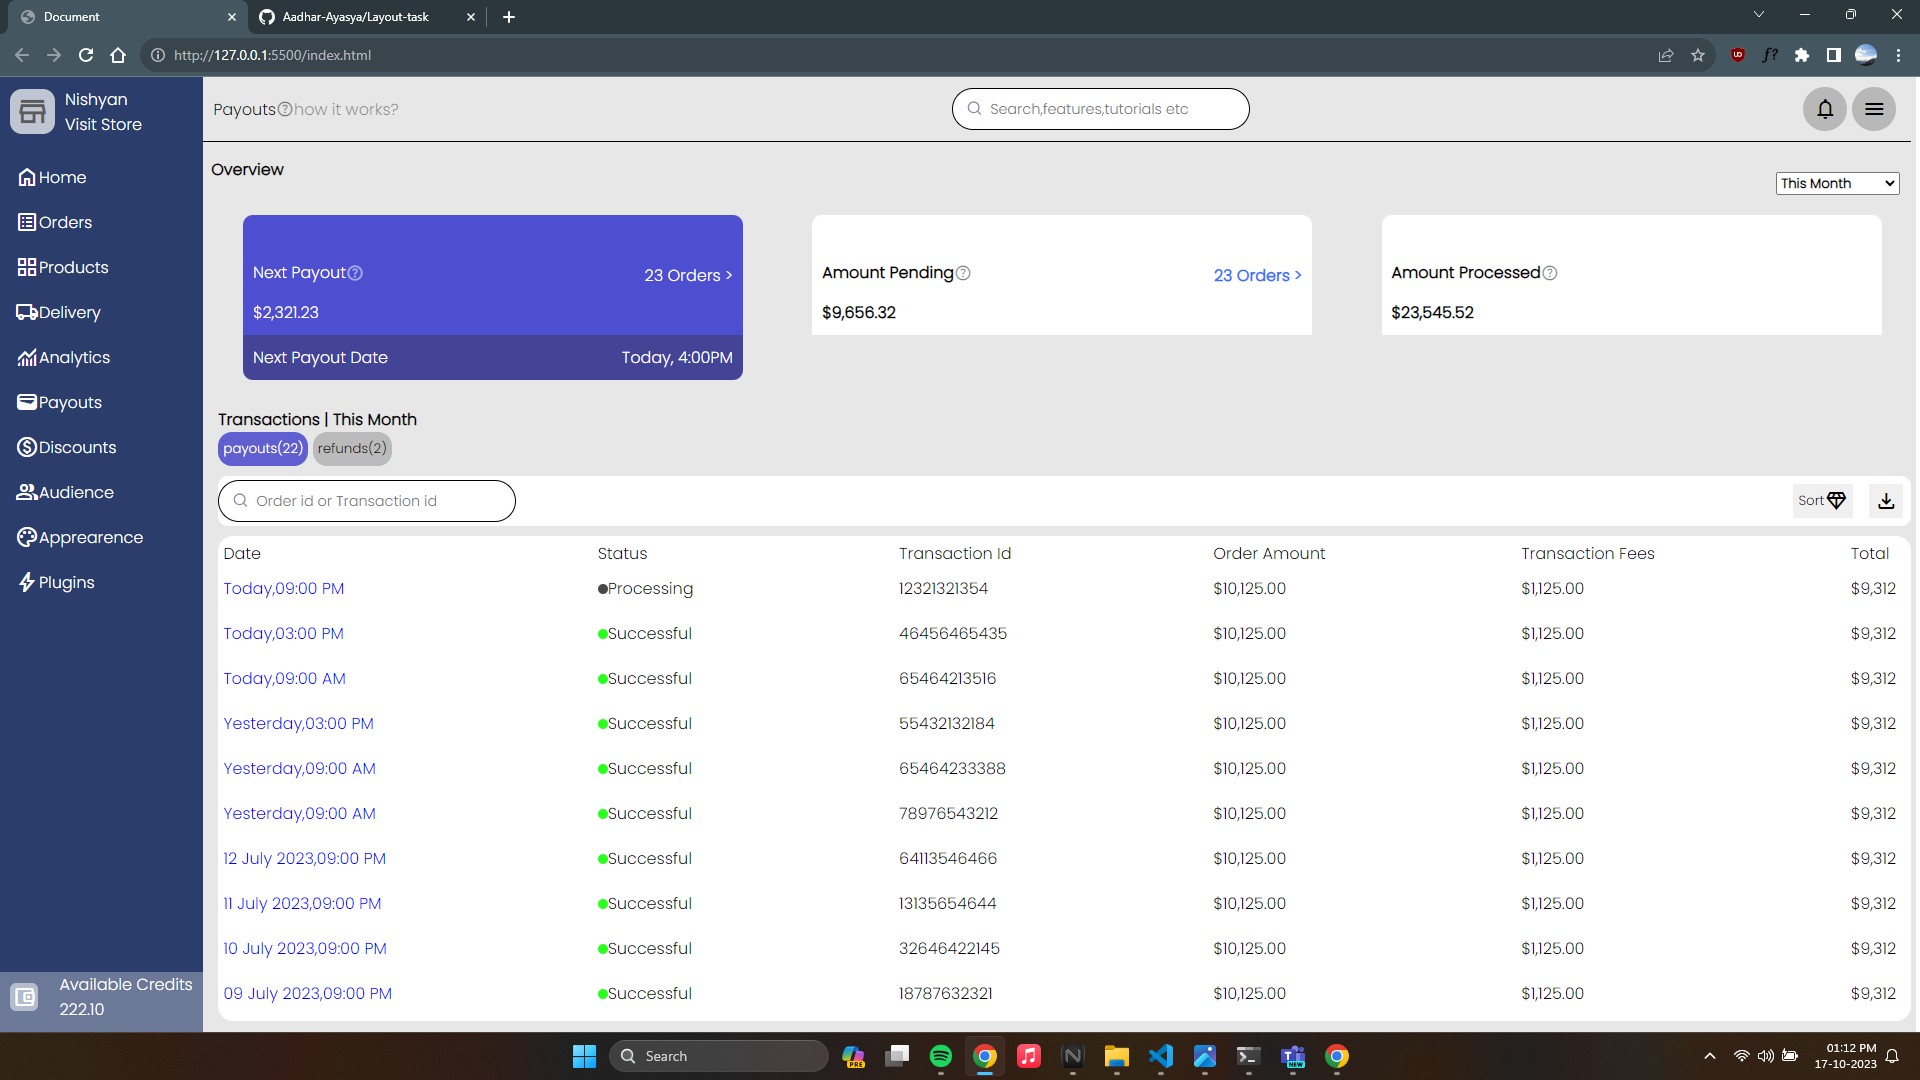
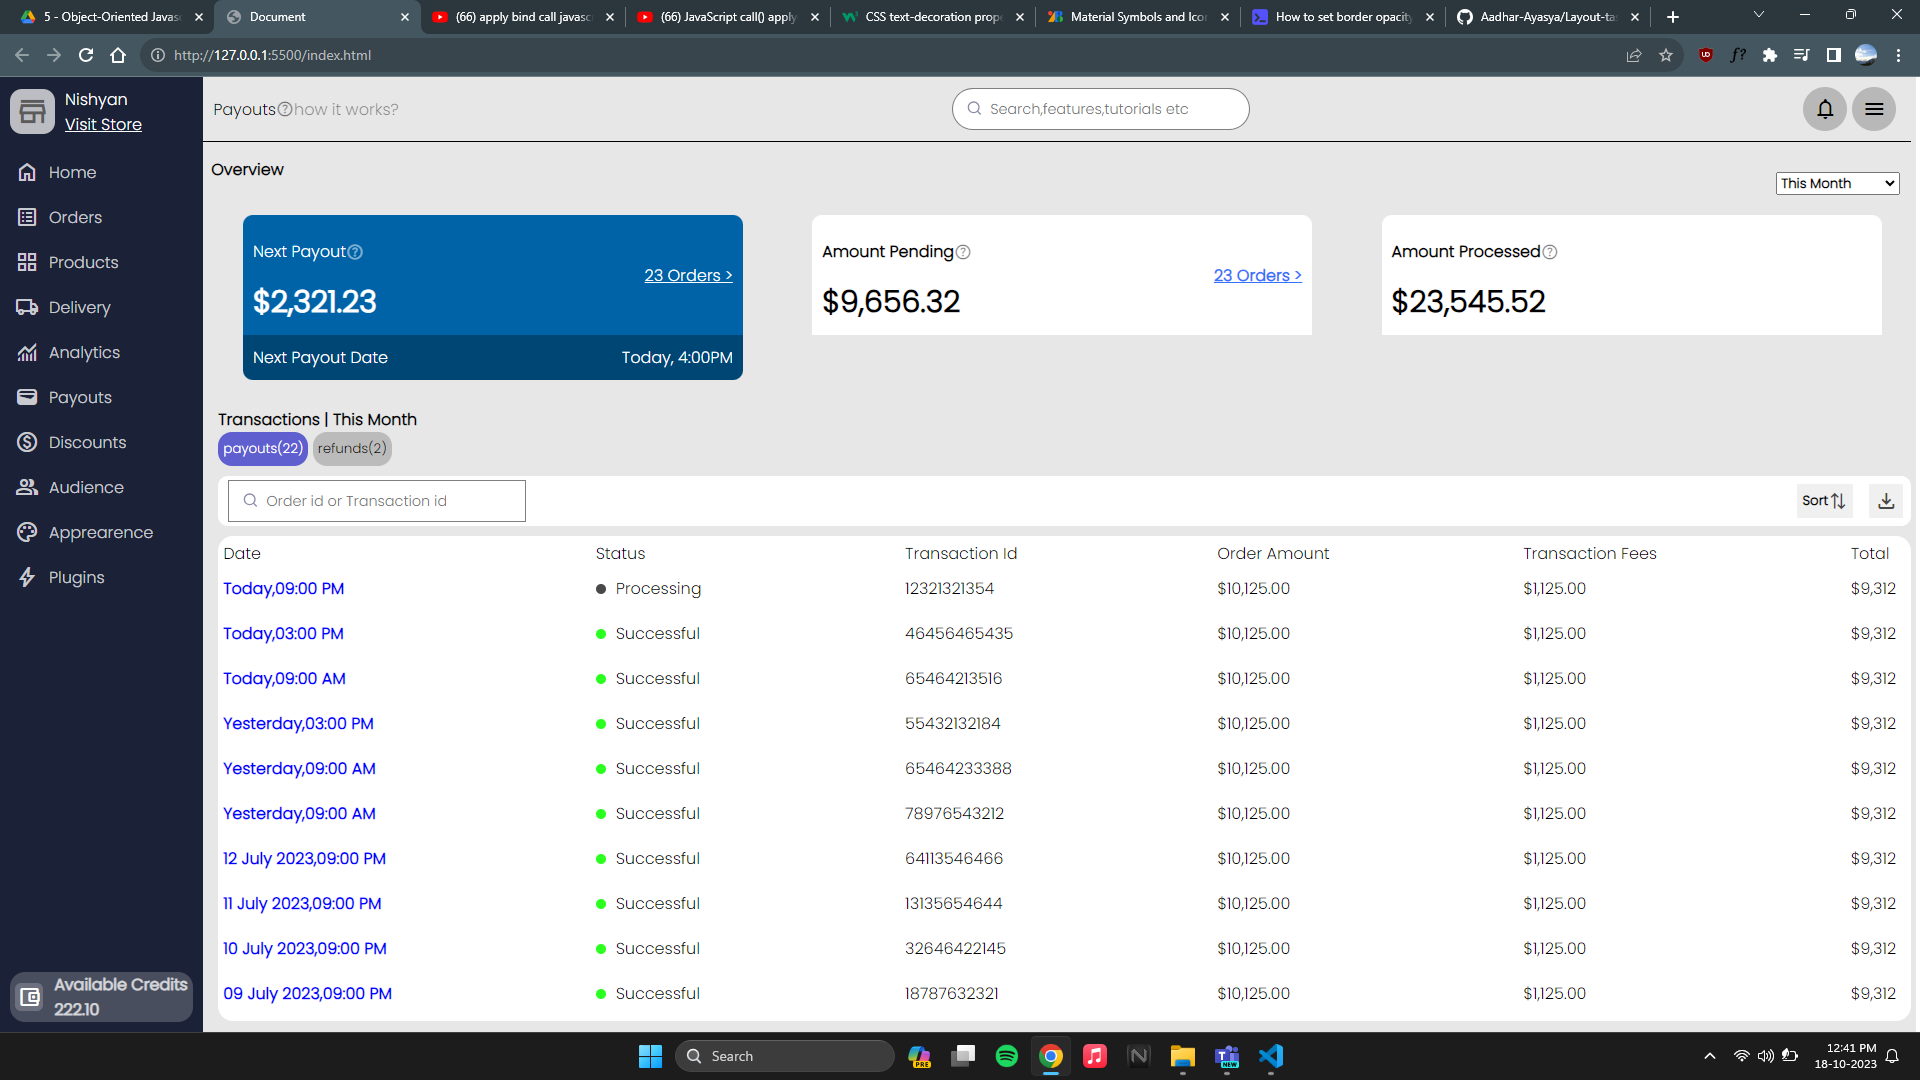
Some Changes

diff --git a/index.html b/index.html
@@ -25,7 +25,9 @@
                 <div class="right-top">
                     <p>Nishyan</p>
                     <a style="text-decoration:none; color: white; " href="#">
-                        <p>Visit Store</p>
+                        <p style="
+                        text-decoration: underline;
+                    " >Visit Store</p>
                     </a>
                 </div>
             </div>
@@ -172,7 +174,9 @@
                             </div>
                             <div class="card-right">
                                 <a href="#">
-                                    <p>23 Orders ></p>
+                                    <p style="
+                                    text-decoration: underline;
+                                " >23 Orders ></p>
                                 </a>
                             </div>
                         </div>
@@ -193,7 +197,9 @@
                             </div>
                             <div class="card-right">
                                 <a style="color: rgb(53, 115, 251);" href="#">
-                                    <p>23 Orders ></p>
+                                    <p style="
+                                    text-decoration: underline;
+                                " >23 Orders ></p>
                                 </a>
                             </div>
                         </div>
@@ -222,7 +228,7 @@
                 </div>
                 <div class="secondary-container">
                     <div class="container-top">
-                        <form class="form">
+                        <form  style="border-radius: 0px; margin-left: 10px; " class="form">
                             <button>
                                 <svg width="17" height="16" fill="none" xmlns="http://www.w3.org/2000/svg" role="img"
                                     aria-labelledby="search">
@@ -242,12 +248,12 @@
                             </button>
                         </form>
                         <div class="container-right">
-                            <button id="btn4"> Sort <span class="material-symbols-outlined">
-                                    diamond
+                            <button id="btn4"> <p style="font-weight: 600;" >Sort</p> <span style="transform: rotate(90deg);color:rgba(0, 0, 0, 0.7); font-size: 20px; "  class="material-symbols-outlined">
+                                sync_alt
                                 </span>
                             </button>
                             <button id="btn5">
-                                <span class="material-symbols-outlined">
+                                <span style="color:rgba(0, 0, 0, 0.7);" class="material-symbols-outlined">
                                     download
                                 </span>
                             </button>

diff --git a/style.css b/style.css
@@ -47,9 +47,7 @@ header {
 
 aside {
     display: flex;
-    /* width: 15%; */
-    /* height: 100vh; */
-    background-color: rgb(43, 61, 106);
+    background-color: #1b2237;
     flex-direction: column;
     justify-content: space-between;
 }
@@ -78,33 +76,46 @@ aside {
     padding-bottom: 350px;
     color: white;
 }
+.ele span {
+    padding-right: 10px;
+}
 
 .ele {
+    color: rgba(255, 255, 255, 0.762);
     display: flex;
     padding: 5px;
-    padding-right: 50px;
+    padding-right: 40px;
     margin: 10px;
     align-items: center;
 }
 
 .ele:hover {
-    background-color: rgba(220, 220, 220, 0.3);
+    background-color: rgba(220, 220, 220, 0.2);
+    color: rgba(255, 255, 255, 1);
+
     border-radius: 5px;
 }
 
 .bottom {
-    padding-bottom: 10px;
+    border-radius: 15px;
+    margin: 10px;
     display: flex;
     justify-content: space-around;
     color: white;
     align-items: center;
-    background-color: rgba(255, 255, 255, 0.3);
+    background-color: rgba(255, 255, 255, 0.2);
 }
 
 .bottom span {
     border-radius: 6px;
     padding: 2px;
-    background-color: rgba(255, 255, 255, 0.5);
+    background-color: rgba(255, 255, 255, 0.2);
+}
+
+.txt{
+    font-weight: 600;
+
+    color: rgba(255, 255, 255, 0.762);
 }
 
 .title {
@@ -135,7 +146,7 @@ aside {
     padding: 10px;
     border-bottom-left-radius: 10px;
     border-bottom-right-radius: 10px;
-    background-color: #444497;
+    background-color: #004674;
     display: flex;
     justify-content: space-between;
 }
@@ -145,7 +156,7 @@ aside {
     border-top-left-radius: 10px;
     border-top-right-radius: 10px;
     display: flex;
-    background-color: #4e4ed1;
+    background-color: #0063a8;
     justify-content: space-between;
     height: 100%;
     align-items: center;
@@ -251,6 +262,7 @@ button#btn2 {
 .circle {
     display: inline-flex;
     width: 10px;
+    margin-right:10px;
     height: 10px;
     border-radius: 20px;
     background-color: rgb(43, 255, 32);
@@ -268,7 +280,7 @@ button#btn2 {
 
 .date p {
     color: blue;
-
+   font-weight: 600;
 }
 
 .wrp {
@@ -293,7 +305,7 @@ button#btn2 {
     --border-radius: 30px;
     --after-border-radius: 1px;
     position: relative;
-    border: 1px solid black;
+    border: 1px solid rgba(0, 0, 0, 0.5);
     width: var(--width-of-input);
     height: var(--height-of-input);
     display: flex;
@@ -355,4 +367,9 @@ input:not(:placeholder-shown)~.reset {
 .form svg {
     width: 17px;
     margin-top: 3px;
+}
+
+#txt2{
+    font-size: 30px;
+    font-weight: 700;
 }
